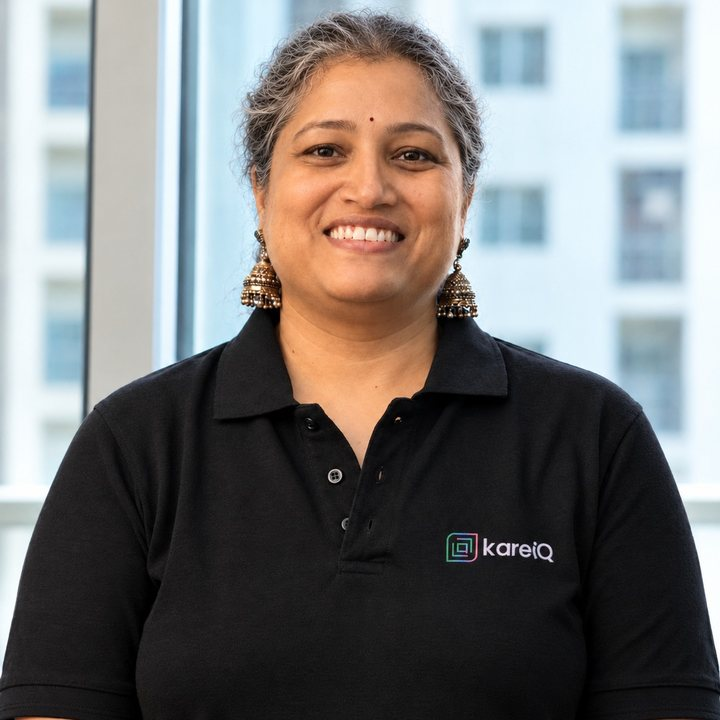
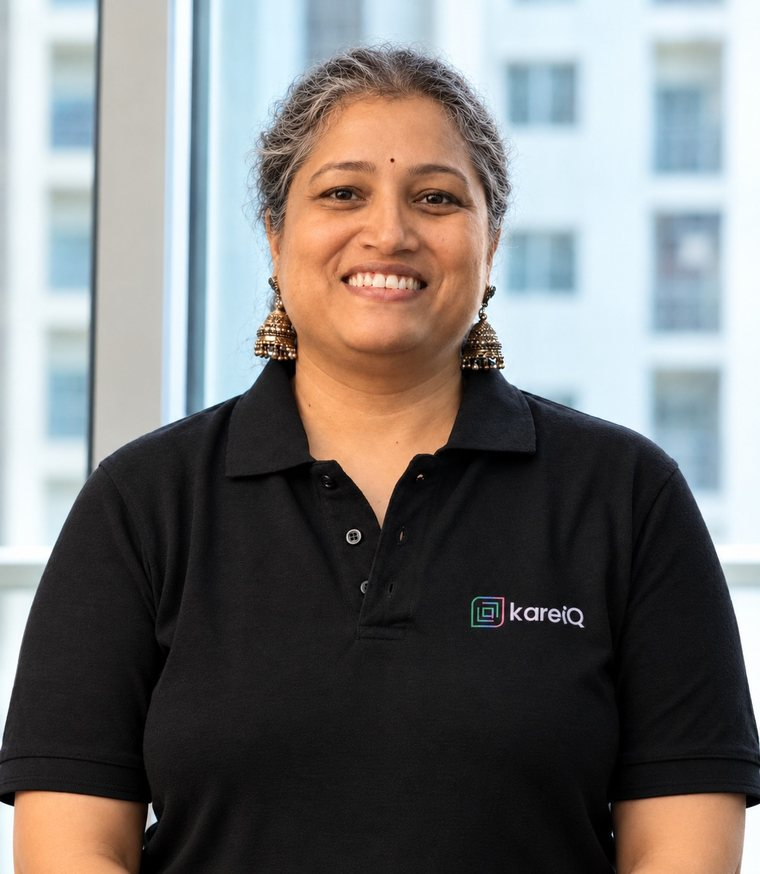
Show full founder and co-founder photos

diff --git a/public/css/kareiq.css b/public/css/kareiq.css
@@ -723,11 +723,12 @@ a.brand-link h3{text-decoration:underline;text-decoration-color:transparent;text
 a.brand-link:hover h3,a.brand-link:focus-visible h3{text-decoration-color:currentColor}
 .brand-go{width:16px;height:16px;flex:none;opacity:.55;transition:transform .3s var(--smooth),opacity .3s}
 a.brand-link:hover .brand-go{transform:translateX(3px);opacity:1}
-/* team photos */
-.p-photo{margin:-6px -6px 20px;border-radius:18px;overflow:hidden;aspect-ratio:16/12;background:#eef2f6}
-.p-photo img{width:100%;height:100%;object-fit:cover;object-position:50% 22%;display:block;transition:transform .8s var(--smooth,ease)}
-.person:hover .p-photo img{transform:scale(1.03)}
-@media (max-width:560px){.p-photo{margin:-4px -4px 16px;aspect-ratio:1/1;border-radius:16px}}
+/* team photos: the whole photo, same height for both, on a soft brand-tinted panel */
+.p-photo{margin:-6px -6px 20px;height:clamp(320px,34vw,460px);display:flex;justify-content:center;align-items:flex-end;padding:14px 14px 0;border-radius:18px;overflow:hidden;background:linear-gradient(160deg,#e4f3f1 0%,#ece8f8 55%,#f8e7ef 100%)}
+.p-photo picture{display:contents}
+.p-photo img{height:100%;width:auto;max-width:100%;object-fit:contain;display:block;border-radius:12px 12px 0 0;box-shadow:0 18px 34px -24px rgba(19,48,74,.55);transition:transform .8s var(--smooth,ease);transform-origin:50% 100%}
+.person:hover .p-photo img{transform:scale(1.02)}
+@media (max-width:560px){.p-photo{margin:-4px -4px 16px;padding:12px 12px 0;border-radius:16px}}
 @media (prefers-reduced-motion:reduce){.p-photo img{transition:none}.person:hover .p-photo img{transform:none}}
 
 /* footer social links */
@@ -739,3 +740,8 @@ a.brand-link:hover .brand-go{transform:translateX(3px);opacity:1}
 .foot-social .fb:hover,.foot-social .fb:focus-visible{background:#1877f2}
 .foot-social .wa{color:#1fa855}
 .foot-social .wa:hover,.foot-social .wa:focus-visible{background:#1fa855;color:#fff}
+/* cards stack on tablets and phones: show each photo at its natural size, centred */
+@media (max-width:960px){
+  .p-photo{height:auto}
+  .p-photo img{height:auto;width:100%;max-width:420px;max-height:none}
+}

diff --git a/public/index.html b/public/index.html
@@ -11,7 +11,7 @@
 <meta name="theme-color" content="#11998e">
 <link rel="icon" type="image/png" href="/img/favicon-kareiq.png">
 <link rel="stylesheet" href="/css/auth-popup.css?v=20261027c">
-<link rel="stylesheet" href="/css/kareiq.css?v=20261028b">
+<link rel="stylesheet" href="/css/kareiq.css?v=20261028c">
 <link rel="stylesheet" href="/css/loader.css?v=20261024a">
 <script src="/js/loader.js?v=20261024a"></script>
 <script src="/js/api.js?v=20261024a"></script>
@@ -358,7 +358,7 @@
       </div>
       <div class="people">
         <article class="person rv l">
-          <figure class="p-photo"><picture><source srcset="/img/team-vinaya.webp" type="image/webp"><img src="/img/team-vinaya.jpg" alt="Vinaya Ulhas Pai, Founder and CEO of KareIQ" width="720" height="720" loading="lazy" decoding="async"></picture></figure>
+          <figure class="p-photo"><picture><source srcset="/img/team-vinaya.webp" type="image/webp"><img src="/img/team-vinaya.jpg" alt="Vinaya Ulhas Pai, Founder and CEO of KareIQ" width="760" height="874" loading="lazy" decoding="async"></picture></figure>
           <div class="p-top">
             
             <div><h3>Vinaya Ulhas Pai</h3><p class="role">Founder, CEO</p></div>
@@ -373,7 +373,7 @@
           <button class="more" aria-expanded="false" aria-controls="bio-vinaya">Read full profile</button>
         </article>
         <article class="person rv r" style="--d:.12s">
-          <figure class="p-photo"><picture><source srcset="/img/team-sreenivasa.webp" type="image/webp"><img src="/img/team-sreenivasa.jpg" alt="Sreenivasa Prabhu, Co-founder and COO of KareIQ" width="720" height="720" loading="lazy" decoding="async"></picture></figure>
+          <figure class="p-photo"><picture><source srcset="/img/team-sreenivasa.webp" type="image/webp"><img src="/img/team-sreenivasa.jpg" alt="Sreenivasa Prabhu, Co-founder and COO of KareIQ" width="760" height="1012" loading="lazy" decoding="async"></picture></figure>
           <div class="p-top">
             
             <div><h3>Sreenivasa Prabhu</h3><p class="role">Co-founder, COO</p></div>
